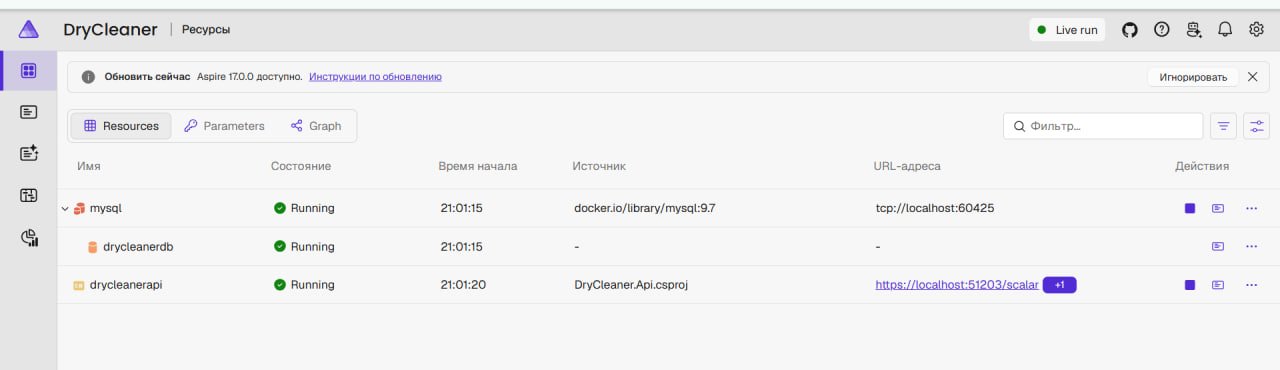
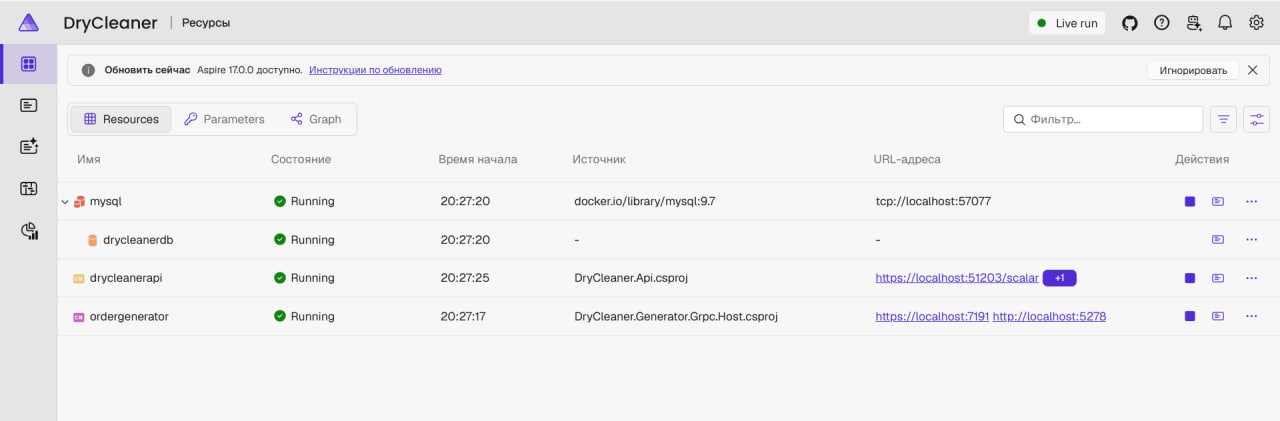
Обновил README

diff --git a/README.md b/README.md
@@ -136,9 +136,13 @@
 Если у вас появились идеи/пожелания/прочие полезные мысли по преподаваемой дисциплине, их можно оставить [здесь](https://github.com/itsecd/enterprise-development/discussions/categories/ideas).
 
 
-# Лабораторная работа №3 — ORM «Химчистка»
+# Лабораторная работа №4 — Генерация данных через gRPC «Химчистка»
 
 Учебный проект по дисциплине «Разработка корпоративных приложений» на платформе **.NET 10**.
+
+**Вариант 17:** MySQL, gRPC.
+
+В четвёртой лабораторной работе реализованы отдельное приложение для генерации заказов, серверная потоковая передача данных через gRPC и автоматическое сохранение полученных заказов в базе данных. В качестве факультативного задания реализованы интеграционные тесты с использованием .NET Aspire.
 
 ## Предметная область
 
@@ -148,40 +152,41 @@
 - **Категория изделия** — справочник: название, рекомендуемый вид чистки, стоимость.
 - **Клиент** — ФИО, телефон.
 - **Заказ** — клиент, изделие, дата приёма, срок выполнения, статус.
+- **Пользователь** — имя пользователя и хеш пароля.
 
-Данные хранятся в **базе данных MySQL**. Для работы с БД используется **Entity Framework Core** с провайдером **Pomelo**.
+Данные хранятся в базе данных **MySQL**. Для работы с БД используется **Entity Framework Core** с провайдером **Pomelo**.
 
 ## Технологии
 
-- .NET 10
-- ASP.NET Core Web API
-- **Entity Framework Core 9** (ORM)
-- **Pomelo.EntityFrameworkCore.MySql** (провайдер MySQL)
-- **Aspire.Pomelo.EntityFrameworkCore.MySql** (интеграция с Aspire)
-- **MySQL** (база данных)
-- **.NET Aspire** (оркестрация)
-- **Docker** (контейнеризация БД)
-- JWT (аутентификация и авторизация)
-- ASP.NET Core Identity PasswordHasher (хеширование паролей)
-- Microsoft.AspNetCore.OpenApi
-- Scalar UI
-- xUnit v3
-- LINQ
-- GitHub Actions
+- .NET 10, ASP.NET Core Web API.
+- Entity Framework Core 9, Pomelo.EntityFrameworkCore.MySql.
+- Aspire.Pomelo.EntityFrameworkCore.MySql.
+- MySQL, MySqlConnector.
+- .NET Aspire 13.6.5, Docker.
+- gRPC, Protocol Buffers (Protobuf), HTTP/2.
+- Bogus — генерация тестовых данных.
+- JWT, ASP.NET Core Identity PasswordHasher.
+- Microsoft.AspNetCore.OpenApi, Scalar UI.
+- xUnit v3, Aspire.Hosting.Testing.
+- OpenTelemetry, LINQ, GitHub Actions.
 
 ## Архитектура
 
-Проект разделён на слои (Clean Architecture):
+Проект разделён на слои (Clean Architecture) и дополнен отдельным приложением генерации данных:
 
-- **Domain** — доменные сущности (`Client`, `Order`, `Item`, `Category`), интерфейсы репозиториев, тестовые данные (`DataSeed`).
-- **Contracts** — DTO для чтения и записи, интерфейсы сервисов (`IApplicationService`, `IAnalyticsService`, `IOrderService`).
-- **Application** — бизнес-логика (сервисы `ClientService`, `OrderService`, `ItemService`, `CategoryService`, `AnalyticsService`, `Mapper`).
+- **Domain** — доменные сущности, интерфейсы репозиториев, начальные данные (`DataSeed`).
+- **Contracts** — DTO для чтения и записи, интерфейсы сервисов (`IApplicationService`, `IAnalyticsService`, `IOrderService`), общий Protobuf-контракт `orders.proto`.
+- **Application** — бизнес-логика (`ClientService`, `OrderService`, `ItemService`, `CategoryService`, `AnalyticsService`), преобразование сущностей и DTO (`Mapper`).
 - **Infrastructure.EFCore** — реализация репозиториев через EF Core, `DryCleanerDbContext`, миграции.
 - **Infrastructure.InMemory** — реализация репозиториев с хранением данных в памяти.
-- **Api** — контроллеры (`CrudControllerBase`, `AnalyticsController`, `AuthController`), глобальный `ExceptionHandlingMiddleware`, настройка DI в `Program.cs`.
-- **AppHost** — проект Aspire для оркестрации базы данных и API.
-- **ServiceDefaults** — общие настройки для API (OpenTelemetry, HealthChecks).
-- **Tests** — xUnit-тесты аналитических запросов.
+- **Api** — REST-контроллеры, глобальный `ExceptionHandlingMiddleware`, настройка DI, gRPC-клиент и фоновый сервис `OrderGenerationBackgroundService`.
+- **Generator** — библиотека генерации заказов (`OrderGenerator`) с использованием Bogus.
+- **Generator.Grpc.Host** — gRPC-сервер (`OrderStreamingService`), обеспечивающий потоковую передачу заказов.
+- **AppHost** — проект Aspire для оркестрации MySQL, API и gRPC-сервера генератора.
+- **ServiceDefaults** — общие настройки для API (OpenTelemetry, HealthChecks, Service Discovery).
+- **Tests** — модульные xUnit-тесты аналитических запросов.
+- **IntegrationTests** — интеграционные тесты API, gRPC и сохранения заказов в MySQL.
+
 
 ## Структура
 
@@ -191,53 +196,85 @@ enterprise-development/
 │   └── workflows/
 │       └── tests.yml
 ├── docs/
-│   ├── tests_results.png
-│   ├── auth_login.jpg
-│   ├── auth_token.jpg
-│   ├── scalar_example.jpg
-│   ├── aspire_dashboard.jpg
-│   └── aspire_urls.jpg
+│   └── ...
 ├── DryCleaner/
 │   ├── src/
 │   │   ├── DryCleaner.Domain/
 │   │   ├── DryCleaner.Contracts/
+│   │   │   └── Protos/
+│   │   │       └── orders.proto
 │   │   ├── DryCleaner.Application/
 │   │   ├── DryCleaner.Infrastructure.EFCore/
 │   │   ├── DryCleaner.Infrastructure.InMemory/
 │   │   ├── DryCleaner.Api/
+│   │   │   └── BackgroundServices/
+│   │   │       └── OrderGenerationBackgroundService.cs
+│   │   ├── DryCleaner.Generator/
+│   │   │   └── OrderGenerator.cs
+│   │   ├── DryCleaner.Generator.Grpc.Host/
+│   │   │   └── Services/
+│   │   │       └── OrderStreamingService.cs
 │   │   ├── DryCleaner.AppHost/
 │   │   └── DryCleaner.ServiceDefaults/
 │   ├── tests/
-│   │   └── DryCleaner.Tests/
+│   │   ├── DryCleaner.Tests/
+│   │   └── DryCleaner.IntegrationTests/
+│   │       ├── AppHostFixture.cs
+│   │       └── ApiIntegrationTests.cs
 │   └── DryCleaner.slnx
 └── README.md
 ```
 
 ## Функциональность
 
-- **CRUD для всех сущностей**.
+- **CRUD** для клиентов, изделий, категорий и заказов.
 - **Аналитика**:
   - Заказы в обработке, упорядоченные по дате.
   - Топ-5 клиентов по количеству заказов за период.
   - Клиенты с самыми долгими заказами.
-  - Топ-5 популярных/непопулярных категорий за год.
+  - Топ-5 популярных и непопулярных категорий за год.
   - Клиент, потративший наибольшую сумму.
 - **Регистрация пользователей** — создание учётных записей с хешированием паролей.
-- **Авторизация** — JWT-токены. Все контроллеры (кроме `Auth`) защищены атрибутом `[Authorize]`.
-- **Документация** — OpenAPI (Microsoft.AspNetCore.OpenApi) + Scalar UI с русскими описаниями эндпоинтов.
-- **База данных** — MySQL, развёрнутая в Docker-контейнере через Aspire.
+- **Авторизация** — JWT-токены для доступа к защищённым контроллерам.
+- **Документация API** — OpenAPI и Scalar UI с русскими описаниями эндпоинтов.
+- **База данных** — MySQL в Docker-контейнере, управляемом Aspire.
 - **Миграции** — создание таблиц и заполнение начальными данными (`HasData`).
-- **Связанные DTO** — заказы возвращают вложенные `ClientDto` и `ItemDto`, а изделия содержат `CategoryDto`. Связанные сущности загружаются через `Include()` и `ThenInclude()`.
+- **Связанные данные** — DTO заказов содержат идентификаторы и сведения о клиентах и изделиях; DTO изделий содержат идентификатор и название категории. Для загрузки связанных сущностей используются `Include()` и `ThenInclude()`.
+- **Генерация заказов** — создание случайных заказов с помощью Bogus и передача через gRPC Server Streaming.
+- **Автоматическое сохранение** — получение и обработка заказов фоновым сервисом API с последующей записью в MySQL.
+
+## Генерация данных через gRPC
+
+Для взаимодействия основного приложения с генератором используется **gRPC поверх HTTP/2 с TLS**. Контракт описан в файле `DryCleaner.Contracts/Protos/orders.proto`.
+
+Реализован метод `OrderGetStream` с серверной потоковой передачей (Server Streaming):
+
+```protobuf
+service OrderGrpcService {
+    rpc OrderGetStream(OrderGetStreamRequest) returns (stream OrderGetStreamResponse);
+}
+```
+
+Клиент отправляет один запрос, а сервер возвращает последовательность ответов в рамках одного вызова.
+
+### Порядок работы
+
+1. Aspire запускает MySQL и gRPC-сервер генератора, затем API.
+2. При запуске API в окружении Development применяются миграции, если это необходимо.
+3. Фоновый сервис `OrderGenerationBackgroundService` получает идентификаторы существующих клиентов и изделий из базы данных.
+4. API отправляет идентификаторы генератору в запросе `OrderGetStreamRequest`.
+5. Генератор с помощью Bogus формирует заказы, выбирая клиента и изделие из переданных идентификаторов. Срок выполнения составляет от 1 до 30 дней, начальный статус — `Accepted`.
+6. gRPC-сервер отправляет три пакета по пять заказов с интервалом в одну секунду между пакетами. В последнем пакете устанавливается признак `is_final`.
+7. API асинхронно читает поток ответов, преобразует полученные данные в `OrderCreateDto` и сохраняет заказы через `IOrderService`.
+8. В журнал выводится количество сохранённых заказов.
+
+При штатном завершении генерации сохраняется **15 новых заказов**. Генерация выполняется один раз при запуске API, если включена настройка `OrderGeneration:Enabled`. AppHost включает эту настройку автоматически. При повторном запуске обычного приложения создаются новые заказы, а ранее сохранённые данные остаются в БД.
 
 ## Регистрация и авторизация
 
-В приложении реализована регистрация новых пользователей и вход с использованием JWT.
-
 ### Регистрация
 
-Для создания учётной записи используется эндпоинт:
-
-`POST /api/Auth/register`
+Для создания учётной записи используется эндпоинт `POST /api/Auth/register`.
 
 Пример запроса:
 
@@ -248,13 +285,11 @@ enterprise-development/
 }
 ```
 
-Пароль пользователя сохраняется в базе данных в виде хеша с использованием `PasswordHasher`.
+Пароль пользователя сохраняется в базе данных в виде хеша.
 
 ### Авторизация
 
-Для получения JWT-токена используется эндпоинт:
-
-`POST /api/Auth/login`
+Для получения JWT-токена используется эндпоинт `POST /api/Auth/login`.
 
 Пример запроса:
 
@@ -269,47 +304,61 @@ enterprise-development/
 
 ## Запуск
 
-> **Требования:** Установленный **Docker Desktop** (должен быть запущен) и **.NET 10 SDK**.
-
-1. Перейти в папку `DryCleaner`.
-2. Запустить проект Aspire:
+1. Перейти в каталог `DryCleaner`.
+2. Выполнить команду:
 
    ```bash
    dotnet run --project src/DryCleaner.AppHost
    ```
 
-3. Aspire автоматически:
-   - Поднимет контейнер с MySQL.
-   - Создаст базу данных `drycleanerdb`.
-   - Запустит API и применит миграции в окружении Development.
-   - Заполнит базу начальными данными из `DataSeed`.
+   Также можно запустить `DryCleaner.AppHost` через Visual Studio.
 
-4. Открыть **Aspire Dashboard** (ссылка появится в консоли).
+3. Aspire автоматически запустит MySQL, API и gRPC-сервер генератора заказов.
+4. Открыть Aspire Dashboard по адресу из консоли.
+5. Открыть [Scalar UI](https://localhost:51203/scalar).
+6. Зарегистрироваться, авторизоваться и указать полученный JWT-токен в поле **Bearer Token**.
 
-5. Открыть **Scalar UI** по адресу:
-
-   https://localhost:51203/scalar
-
-   Спецификация OpenAPI доступна по адресу:
-
-   https://localhost:51203/openapi/v1.json
-
-   > HTTP- и HTTPS-порты API закреплены в конфигурации Aspire AppHost.
-
-6. Зарегистрировать пользователя через `POST /api/Auth/register`, указав логин и пароль.
-
-7. Авторизоваться через `POST /api/Auth/login`, используя данные зарегистрированного пользователя.
-
-8. Скопировать полученный JWT-токен и вставить его в поле **Bearer Token** в Scalar.
-
-9. После авторизации можно выполнять CRUD-операции и аналитические запросы.
+При запуске API автоматически генерируются и сохраняются в MySQL 15 заказов.
 
 ## Тестирование
 
-Для запуска тестов из каталога `DryCleaner` выполнить:
+В решении реализовано 10 тестов: 5 модульных и 5 интеграционных. Все 10 тестов успешно пройдены при локальном запуске.
+
+Для запуска всех тестов из каталога `DryCleaner` выполнить:
 
 ```bash
 dotnet test DryCleaner.slnx
+```
+
+### Модульные тесты
+
+Проект `DryCleaner.Tests` содержит пять тестов аналитических запросов.
+
+```bash
+dotnet test tests/DryCleaner.Tests/DryCleaner.Tests.csproj
+```
+
+### Интеграционные тесты
+
+Проект `DryCleaner.IntegrationTests` использует xUnit v3 и `Aspire.Hosting.Testing`.
+
+
+В классе `ApiIntegrationTests` реализованы следующие проверки:
+
+| Тест | Назначение |
+| --- | --- |
+| `HealthEndpoint_ReturnsSuccess` | Доступность API через `/health`. |
+| `Auth_RegisterAndLogin_ReturnsToken` | Регистрация, получение JWT-токена и доступ к защищённому эндпоинту. |
+| `OrderGetStream_ReturnsValidBatches` | Получение трёх пакетов по пять заказов, проверка полей и признака завершения потока. |
+| `OrderGetStream_EmptyRequest_ReturnsInvalidArgument` | Обработка некорректного запроса к gRPC-серверу. |
+| `OrderGeneration_SavesOrdersToDatabase` | Сохранение 15 сгенерированных заказов в MySQL и проверка их статуса и срока выполнения. |
+
+Тест сохранения проверяет наличие 65 заказов в чистой тестовой базе: 50 начальных и 15 сгенерированных.
+
+Для отдельного запуска интеграционных тестов:
+
+```bash
+dotnet test tests/DryCleaner.IntegrationTests/DryCleaner.IntegrationTests.csproj
 ```
 
 ## Примеры работы
@@ -317,10 +366,6 @@ dotnet test DryCleaner.slnx
 ### Aspire Dashboard
 
 ![Aspire Dashboard](./docs/aspire_dashboard.jpg)
-
-### Адреса ресурсов Aspire
-
-![Aspire URLs](./docs/aspire_urls.jpg)
 
 ### Авторизация
 
@@ -334,6 +379,18 @@ dotnet test DryCleaner.slnx
 
 ![Scalar UI](./docs/scalar_example.jpg)
 
+### Потоковая передача заказов через gRPC
+
+![Журнал генератора](./docs/generator_logs.jpg)
+
+### Получение и сохранение заказов
+
+![Журнал API](./docs/api_logs.jpg)
+
+### Сгенерированные заказы в MySQL
+
+![Заказы в MySQL](./docs/mysql_orders.jpg)
+
 ### Результаты тестирования
 
-![Результаты тестирования](./docs/tests_results.jpg)
+![Результаты тестирования](./docs/tests_results.png)
